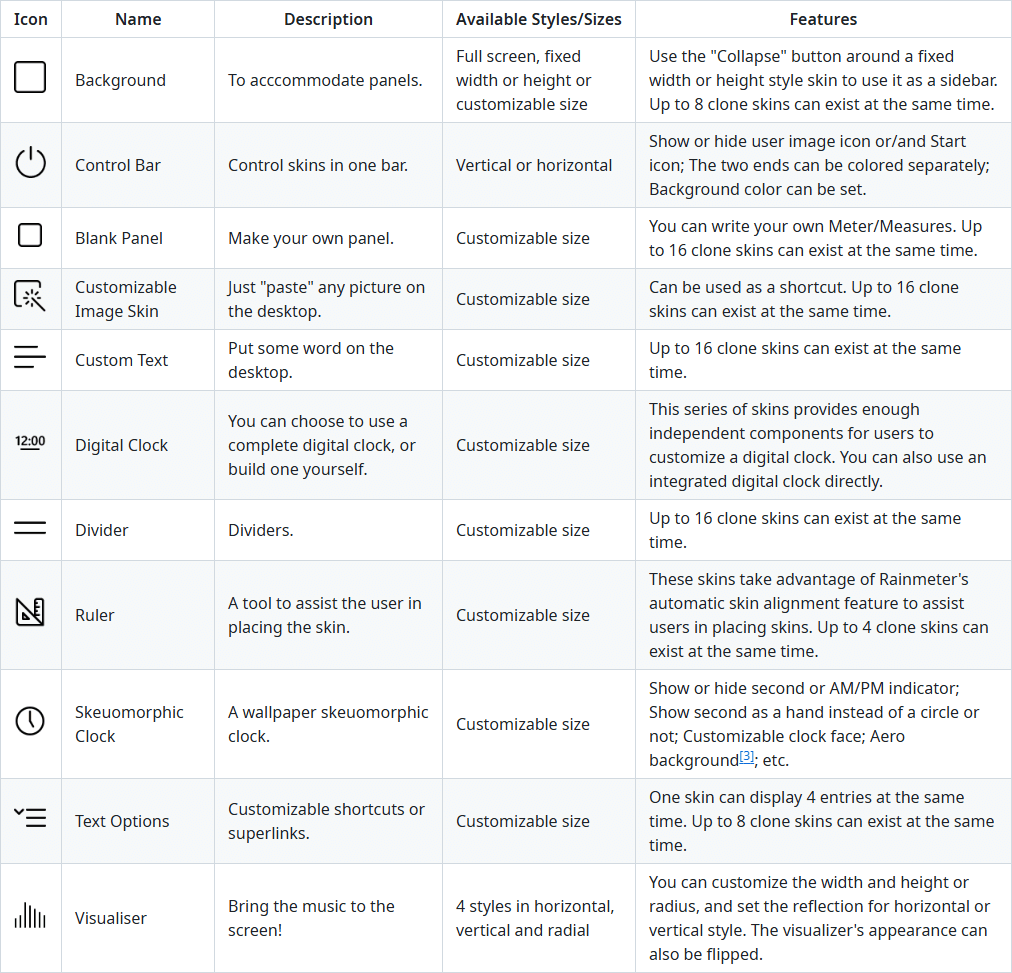
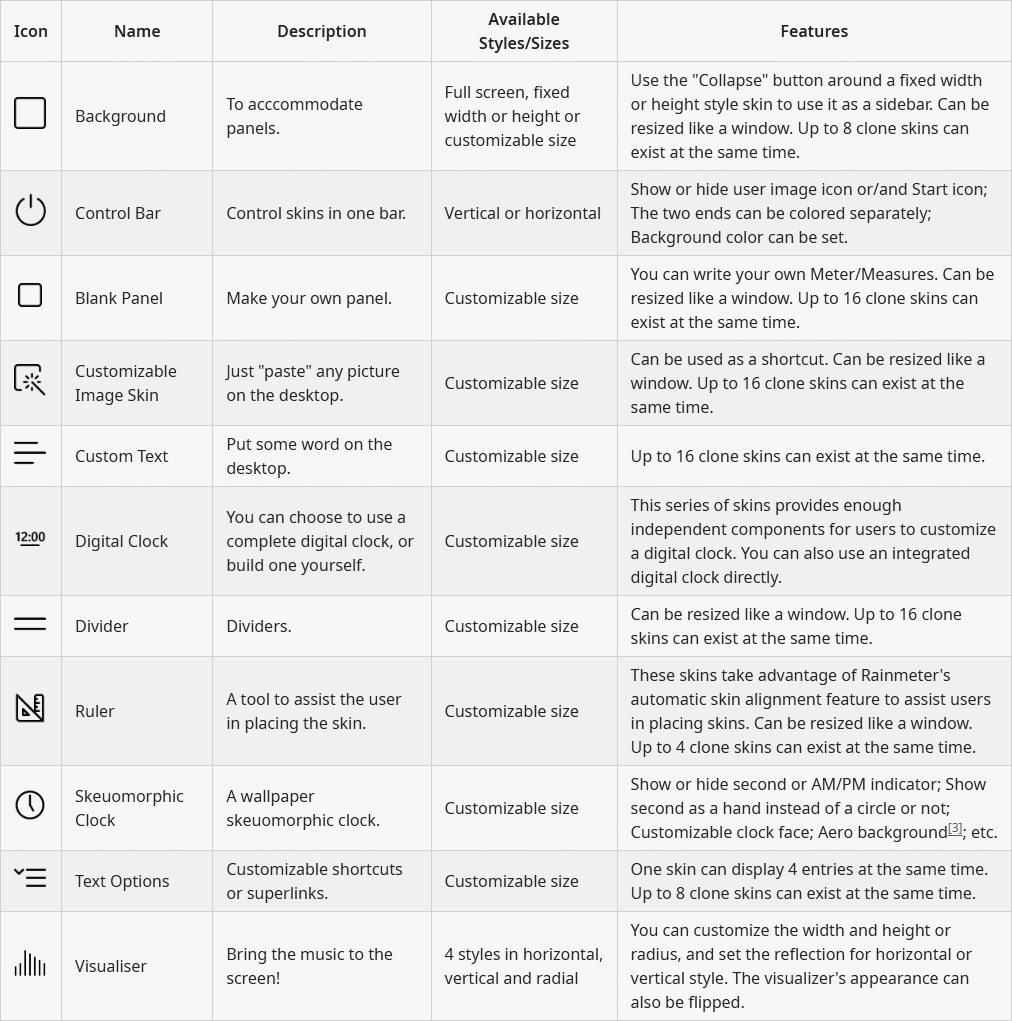
Update Resources

diff --git a/README.md b/README.md
@@ -12,7 +12,7 @@
 		<a href="https://github.com/stevehsudrawing/quantoflx"><img alt="GitHub Repo Stars" src="https://img.shields.io/github/stars/stevehsudrawing/quantoflx?style=flat"></a>
 		<a href="https://github.com/stevehsudrawing/quantoflx/issues"><img alt="GitHub Issues" src="https://img.shields.io/github/issues/stevehsudrawing/quantoflx"></a>
 		<a href="https://x.com/quantoseries"><img alt="X Follow" src="https://img.shields.io/twitter/follow/quantoseries?style=flat&logo=X&label=follow"></a>
-		<a href="https://www.patreon.com/quantoseries"><img alt="Patreon Subscribe" src="https://img.shields.io/badge/subscribe_%40quantoseries-_-%23999999?logo=patreon&label=subscribe"></a>
+		<a href="https://www.patreon.com/quantoseries"><img alt="Patreon Subscribe" src="https://img.shields.io/badge/subscribe-_-999999?logo=patreon"></a>
 		<br>
 		<a href="https://www.patreon.com/posts/119206461"><kbd>Changelog of Quanto Flx 2.00 Delta (Build 1101)</kbd></a><br>
 		<!-- <a href="https://www.patreon.com/posts/119206461"><kbd>Learn about the latest news of upcoming Delta (Build 1101)</kbd></a><br> -->
@@ -34,40 +34,40 @@ Quanto Flx comes with 4 pre-installed packages that contain **160+ distinctive p
 
 Gadgets for your everyday use.
 
-| Icon																																													| Name			| Description									| Available Styles/Sizes										| Features																															|
-|-----------------------------------------------------------------------------------------------------------------------------------------------------------------------------------------------------------------------------------------------------------------------------------------------------------------------------------------------------------------------|-----------------------|-------------------------------------------------------------------------------|-------------------------------------------------------------------------------------------------------|---------------------------------------------------------------------------------------------------------------------------------------------------------------------------------------------------------------------------------------------------------------|
-| <picture>	<source srcset=".github/images/QuantoFlx.Gadgets/IconSquare/Calculator_0.png" media="(prefers-color-scheme: light)">	<source srcset=".github/images/QuantoFlx.Gadgets/IconSquare/Calculator_1.png" media="(prefers-color-scheme: dark)">	<img src=".github/images/QuantoFlx.Gadgets/IconSquare/Calculator_0.png" width="32">	</picture>	| Calculator		| A simple desktop calculator.							| `4x4` `4x5`												| Playing sound when clicking button.																												|
-| <picture>	<source srcset=".github/images/QuantoFlx.Gadgets/IconSquare/Calendar_0.png" media="(prefers-color-scheme: light)">	<source srcset=".github/images/QuantoFlx.Gadgets/IconSquare/Calendar_1.png" media="(prefers-color-scheme: dark)">	<img src=".github/images/QuantoFlx.Gadgets/IconSquare/Calendar_0.png" width="32">	</picture>	| Calendar		| Shows today's date or the calendar for the month.				| `2x2*2` `4x4`												| Starting on Monday or not; Customizable list of events.																									|
-| <picture>	<source srcset=".github/images/QuantoFlx.Gadgets/IconSquare/Clock_0.png" media="(prefers-color-scheme: light)">		<source srcset=".github/images/QuantoFlx.Gadgets/IconSquare/Clock_1.png" media="(prefers-color-scheme: dark)">		<img src=".github/images/QuantoFlx.Gadgets/IconSquare/Clock_0.png" width="32">		</picture>	| Clock			| Displays the current time in the form of a digital or skeuomorphic clock.	| `2x1` `2x2` `4x2` `4x4`										| Text align; Show or hide second or AM/PM indicator; Show second as a hand instead of a circle or not; Customizable clock face; etc. Up to 8 clone skins can exist at the same time.										|
-| <picture>	<source srcset=".github/images/QuantoFlx.Gadgets/IconSquare/Desktop_0.png" media="(prefers-color-scheme: light)">	<source srcset=".github/images/QuantoFlx.Gadgets/IconSquare/Desktop_1.png" media="(prefers-color-scheme: dark)">	<img src=".github/images/QuantoFlx.Gadgets/IconSquare/Desktop_0.png" width="32">	</picture>	| Desktop		| Click to show or hide skins on the desktop.					| `1x1` & customizable size										| -																																|
-| <picture>	<source srcset=".github/images/QuantoFlx.Gadgets/IconSquare/FolderViewer_0.png" media="(prefers-color-scheme: light)">	<source srcset=".github/images/QuantoFlx.Gadgets/IconSquare/FolderViewer_1.png" media="(prefers-color-scheme: dark)">	<img src=".github/images/QuantoFlx.Gadgets/IconSquare/FolderViewer_0.png" width="32">	</picture>	| Folder Viewer		| Displays the contents of a folder.						| Customizable size in the style of List, horizontal & vertical icons (Dock-like)			| One skin can display 4 to 32 files/folders of any local path at the same time. Show or hide files or folders. Up to 8 clone skins can exist at the same time.													|
-| <picture>	<source srcset=".github/images/QuantoFlx.Gadgets/IconSquare/Gallery_0.png" media="(prefers-color-scheme: light)">	<source srcset=".github/images/QuantoFlx.Gadgets/IconSquare/Gallery_1.png" media="(prefers-color-scheme: dark)">	<img src=".github/images/QuantoFlx.Gadgets/IconSquare/Gallery_0.png" width="32">	</picture>	| Gallery		| Shuffle images from a folder.							| Customizable size											| -																																|
-| <picture>	<source srcset=".github/images/QuantoFlx.Gadgets/IconSquare/MediaControl_0.png" media="(prefers-color-scheme: light)">	<source srcset=".github/images/QuantoFlx.Gadgets/IconSquare/MediaControl_1.png" media="(prefers-color-scheme: dark)">	<img src=".github/images/QuantoFlx.Gadgets/IconSquare/MediaControl_0.png" width="32">	</picture>	| Media Control		| To control your music player in your fingertips.				| `1x1` `2x1` `2x2` `4x1` `4x2*2` `4x4`									| Supports players supported by `NowPlaying` Plugin[^1], and also adapts to `WebNowPlaying` Plugin[^2].																				|
-| <picture>	<source srcset=".github/images/QuantoFlx.Gadgets/IconSquare/RSS_0.png" media="(prefers-color-scheme: light)">		<source srcset=".github/images/QuantoFlx.Gadgets/IconSquare/RSS_1.png" media="(prefers-color-scheme: dark)">		<img src=".github/images/QuantoFlx.Gadgets/IconSquare/RSS_0.png" width="32">		</picture>	| RSS Feeds		| Keep track of the latest news from your RSS feeds.				| Customizable size											| Supports reading RSS feeds that conform to the Atom specification. 15/30 titles can be read at a time. Up to 8 clone skins can exist at the same time.													|
-| <picture>	<source srcset=".github/images/QuantoFlx.Gadgets/IconSquare/Search_0.png" media="(prefers-color-scheme: light)">	<source srcset=".github/images/QuantoFlx.Gadgets/IconSquare/Search_1.png" media="(prefers-color-scheme: dark)">		<img src=".github/images/QuantoFlx.Gadgets/IconSquare/Search_0.png" width="32">		</picture>	| Search		| A simple desktop search bar.							| Customizable size											| You can choose Baidu, Google, Microsoft Bing, Wikipedia, Yahoo or Yandex as the search engine.																				|
-| <picture>	<source srcset=".github/images/QuantoFlx.Gadgets/IconSquare/Start_0.png" media="(prefers-color-scheme: light)">		<source srcset=".github/images/QuantoFlx.Gadgets/IconSquare/Start_1.png" media="(prefers-color-scheme: dark)">		<img src=".github/images/QuantoFlx.Gadgets/IconSquare/Start_0.png" width="32">		</picture>	| Start			| Like the Start button on the taskbar, click to open the Start menu.		| `1x1` `4x1` & Customizable size									| Customizable Start icon.																													|
-| <picture>	<source srcset=".github/images/QuantoFlx.Gadgets/IconSquare/StickyNotes_0.png" media="(prefers-color-scheme: light)">	<source srcset=".github/images/QuantoFlx.Gadgets/IconSquare/StickyNotes_1.png" media="(prefers-color-scheme: dark)">	<img src=".github/images/QuantoFlx.Gadgets/IconSquare/StickyNotes_0.png" width="32">	</picture>	| Sticky Notes		| A simple tool for documenting something.					| Customizable size											| These skins implement its functions by reading text files and also support [text formatting](https://github.com/stevehsudrawing/quantoflx/wiki/Manual-of-%22Quanto-Flx-Gadgets%22-Package#text-formatting). Up to 16 clone skins can exist at the same time.	|
-| <picture>	<source srcset=".github/images/QuantoFlx.Gadgets/IconSquare/ToDoList_0.png" media="(prefers-color-scheme: light)">	<source srcset=".github/images/QuantoFlx.Gadgets/IconSquare/ToDoList_1.png" media="(prefers-color-scheme: dark)">	<img src=".github/images/QuantoFlx.Gadgets/IconSquare/ToDoList_0.png" width="32">	</picture>	| To-Do List		| A practical tool for recording matters.					| Customizable size											| Up to 8 clone skins can exist at the same time.																										|
-| <picture>	<source srcset=".github/images/QuantoFlx.Gadgets/IconSquare/Weather_0.png" media="(prefers-color-scheme: light)">	<source srcset=".github/images/QuantoFlx.Gadgets/IconSquare/Weather_1.png" media="(prefers-color-scheme: dark)">	<img src=".github/images/QuantoFlx.Gadgets/IconSquare/Weather_0.png" width="32">	</picture>	| Weather		| See what the weather looks like around the world.				| Current/Today: `1x1` `2x2` `4x1` `4x2` `4x4`<br>Daily/Hourly: `2x2` `4x1` `4x2*2` `4x4*2` `8x4`	| It is divided into four parts: "Current", "Daily", "Hourly" and "Today". No API key needed.																					|
-| <picture>	<source srcset=".github/images/QuantoFlx.Gadgets/IconSquare/WorldClock_0.png" media="(prefers-color-scheme: light)">	<source srcset=".github/images/QuantoFlx.Gadgets/IconSquare/WorldClock_1.png" media="(prefers-color-scheme: dark)">	<img src=".github/images/QuantoFlx.Gadgets/IconSquare/WorldClock_0.png" width="32">	</picture>	| World Clock		| View time around the world.							| `4x2` `4x4` `8x4`											| -																																|
+| Icon																																													| Name			| Description									| Available Styles/Sizes																										| Features																																			|
+|-----------------------------------------------------------------------------------------------------------------------------------------------------------------------------------------------------------------------------------------------------------------------------------------------------------------------------------------------------------------------|-----------------------|-------------------------------------------------------------------------------|---------------------------------------------------------------------------------------------------------------------------------------------------------------------------------------------------------------------------------------|-----------------------------------------------------------------------------------------------------------------------------------------------------------------------------------------------------------------------------------------------------------------------------------------------|
+| <picture>	<source srcset=".github/images/QuantoFlx.Gadgets/IconSquare/Calculator_0.png" media="(prefers-color-scheme: light)">	<source srcset=".github/images/QuantoFlx.Gadgets/IconSquare/Calculator_1.png" media="(prefers-color-scheme: dark)">	<img src=".github/images/QuantoFlx.Gadgets/IconSquare/Calculator_0.png" width="32">	</picture>	| Calculator		| A simple desktop calculator.							| `4x4` `4x5`																												| Playing sound when clicking button.																																|
+| <picture>	<source srcset=".github/images/QuantoFlx.Gadgets/IconSquare/Calendar_0.png" media="(prefers-color-scheme: light)">	<source srcset=".github/images/QuantoFlx.Gadgets/IconSquare/Calendar_1.png" media="(prefers-color-scheme: dark)">	<img src=".github/images/QuantoFlx.Gadgets/IconSquare/Calendar_0.png" width="32">	</picture>	| Calendar		| Shows today's date or the calendar for the month.				| `2x2*2` `4x4`																												| Starting on Monday or not; Customizable list of events.																													|
+| <picture>	<source srcset=".github/images/QuantoFlx.Gadgets/IconSquare/Clock_0.png" media="(prefers-color-scheme: light)">		<source srcset=".github/images/QuantoFlx.Gadgets/IconSquare/Clock_1.png" media="(prefers-color-scheme: dark)">		<img src=".github/images/QuantoFlx.Gadgets/IconSquare/Clock_0.png" width="32">		</picture>	| Clock			| Displays the current time in the form of a digital or skeuomorphic clock.	| `2x1` `2x2` `4x2` `4x4`																										| Text align; Show or hide second or AM/PM indicator; Show second as a hand instead of a circle or not; Customizable clock face; etc. Up to 8 clone skins can exist at the same time.														|
+| <picture>	<source srcset=".github/images/QuantoFlx.Gadgets/IconSquare/Desktop_0.png" media="(prefers-color-scheme: light)">	<source srcset=".github/images/QuantoFlx.Gadgets/IconSquare/Desktop_1.png" media="(prefers-color-scheme: dark)">	<img src=".github/images/QuantoFlx.Gadgets/IconSquare/Desktop_0.png" width="32">	</picture>	| Desktop		| Click to show or hide skins on the desktop.					| `1x1` & customizable size																										| Can be resized like a window.																																	|
+| <picture>	<source srcset=".github/images/QuantoFlx.Gadgets/IconSquare/FolderViewer_0.png" media="(prefers-color-scheme: light)">	<source srcset=".github/images/QuantoFlx.Gadgets/IconSquare/FolderViewer_1.png" media="(prefers-color-scheme: dark)">	<img src=".github/images/QuantoFlx.Gadgets/IconSquare/FolderViewer_0.png" width="32">	</picture>	| Folder Viewer		| Displays the contents of a folder.						| Customizable size in the style of List, horizontal & vertical icons (Dock-like)																			| One skin can display 4 to 32 files/folders of any local path at the same time. Show or hide files or folders. Can be resized like a window. Up to 8 clone skins can exist at the same time.													|
+| <picture>	<source srcset=".github/images/QuantoFlx.Gadgets/IconSquare/Gallery_0.png" media="(prefers-color-scheme: light)">	<source srcset=".github/images/QuantoFlx.Gadgets/IconSquare/Gallery_1.png" media="(prefers-color-scheme: dark)">	<img src=".github/images/QuantoFlx.Gadgets/IconSquare/Gallery_0.png" width="32">	</picture>	| Gallery		| Shuffle images from a folder.							| Customizable size																											| Can be resized like a window.																																	|
+| <picture>	<source srcset=".github/images/QuantoFlx.Gadgets/IconSquare/MediaControl_0.png" media="(prefers-color-scheme: light)">	<source srcset=".github/images/QuantoFlx.Gadgets/IconSquare/MediaControl_1.png" media="(prefers-color-scheme: dark)">	<img src=".github/images/QuantoFlx.Gadgets/IconSquare/MediaControl_0.png" width="32">	</picture>	| Media Control		| To control your music player in your fingertips.				| `1x1` `2x1` `2x2` `4x1` `4x2*2` `4x4`																									| Supports players supported by `NowPlaying` Plugin[^1], and also adapts to `WebNowPlaying` Plugin[^2].																								|
+| <picture>	<source srcset=".github/images/QuantoFlx.Gadgets/IconSquare/RSS_0.png" media="(prefers-color-scheme: light)">		<source srcset=".github/images/QuantoFlx.Gadgets/IconSquare/RSS_1.png" media="(prefers-color-scheme: dark)">		<img src=".github/images/QuantoFlx.Gadgets/IconSquare/RSS_0.png" width="32">		</picture>	| RSS Feeds		| Keep track of the latest news from your RSS feeds.				| Customizable size																											| Supports reading RSS feeds that conform to the Atom specification. 15/30 titles can be read at a time. Can be resized like a window. Up to 8 clone skins can exist at the same time.														|
+| <picture>	<source srcset=".github/images/QuantoFlx.Gadgets/IconSquare/Search_0.png" media="(prefers-color-scheme: light)">	<source srcset=".github/images/QuantoFlx.Gadgets/IconSquare/Search_1.png" media="(prefers-color-scheme: dark)">		<img src=".github/images/QuantoFlx.Gadgets/IconSquare/Search_0.png" width="32">		</picture>	| Search		| A simple desktop search bar.							| Customizable size																											| You can choose Baidu, Google, Microsoft Bing, Wikipedia, Yahoo or Yandex as the search engine. Can be resized like a window. 																					|
+| <picture>	<source srcset=".github/images/QuantoFlx.Gadgets/IconSquare/Start_0.png" media="(prefers-color-scheme: light)">		<source srcset=".github/images/QuantoFlx.Gadgets/IconSquare/Start_1.png" media="(prefers-color-scheme: dark)">		<img src=".github/images/QuantoFlx.Gadgets/IconSquare/Start_0.png" width="32">		</picture>	| Start			| Like the Start button on the taskbar, click to open the Start menu.		| `1x1` `4x1` & Customizable size																									| Customizable Start icon. Can be resized like a window. 																													|
+| <picture>	<source srcset=".github/images/QuantoFlx.Gadgets/IconSquare/StickyNotes_0.png" media="(prefers-color-scheme: light)">	<source srcset=".github/images/QuantoFlx.Gadgets/IconSquare/StickyNotes_1.png" media="(prefers-color-scheme: dark)">	<img src=".github/images/QuantoFlx.Gadgets/IconSquare/StickyNotes_0.png" width="32">	</picture>	| Sticky Notes		| A simple tool for documenting something.					| Customizable size																											| These skins implement its functions by reading text files and also support [text formatting](https://github.com/stevehsudrawing/quantoflx/wiki/Manual-of-%22Quanto-Flx-Gadgets%22-Package#text-formatting). Can be resized like a window. Up to 16 clone skins can exist at the same time.	|
+| <picture>	<source srcset=".github/images/QuantoFlx.Gadgets/IconSquare/ToDoList_0.png" media="(prefers-color-scheme: light)">	<source srcset=".github/images/QuantoFlx.Gadgets/IconSquare/ToDoList_1.png" media="(prefers-color-scheme: dark)">	<img src=".github/images/QuantoFlx.Gadgets/IconSquare/ToDoList_0.png" width="32">	</picture>	| To-Do List		| A practical tool for recording matters.					| Customizable size																											| Up to 8 clone skins can exist at the same time. Can be resized like a window. 																										|
+| <picture>	<source srcset=".github/images/QuantoFlx.Gadgets/IconSquare/Weather_0.png" media="(prefers-color-scheme: light)">	<source srcset=".github/images/QuantoFlx.Gadgets/IconSquare/Weather_1.png" media="(prefers-color-scheme: dark)">	<img src=".github/images/QuantoFlx.Gadgets/IconSquare/Weather_0.png" width="32">	</picture>	| Weather		| See what the weather looks like around the world.				| Current/Today: `1x1` `2x2` `4x1` `4x2` `4x4`<br>Daily/Hourly: `2x2` `4x1` `4x2*2` `4x4*2` `8x4`<br>Air Quality/Clothing Advices/Cloud Cover/Precipitation/Daylight Duration/UV/Visibility/Wind: `1x1` `2x2` `4x1` `4x2` `6x2` `8x2`	| As shown in Available Sizes/Styles, this widget is divided into several parts that can be freely combined. No API key needed.																					|
+| <picture>	<source srcset=".github/images/QuantoFlx.Gadgets/IconSquare/WorldClock_0.png" media="(prefers-color-scheme: light)">	<source srcset=".github/images/QuantoFlx.Gadgets/IconSquare/WorldClock_1.png" media="(prefers-color-scheme: dark)">	<img src=".github/images/QuantoFlx.Gadgets/IconSquare/WorldClock_0.png" width="32">	</picture>	| World Clock		| View time around the world.							| `4x2` `8x4`																											| -																																				|
 
 ### Quanto Flx Miscellaneous
 
 Here are more skins to decorate your desktop.
 
-| Icon																																														| Name				| Description									| Available Styles/Sizes					| Features																			|
-|-------------------------------------------------------------------------------------------------------------------------------------------------------------------------------------------------------------------------------------------------------------------------------------------------------------------------------------------------------------------------------|-------------------------------|-------------------------------------------------------------------------------|---------------------------------------------------------------|---------------------------------------------------------------------------------------------------------------------------------------------------------------|
-| <picture>	<source srcset=".github/images/QuantoFlx.Misc/IconSquare/Background_0.png" media="(prefers-color-scheme: light)">		<source srcset=".github/images/QuantoFlx.Misc/IconSquare/Background_1.png" media="(prefers-color-scheme: dark)">	<img src=".github/images/QuantoFlx.Misc/IconSquare/Background_0.png" width="32">	</picture>	| Background			| To acccommodate panels.							| Full screen, fixed width or height or customizable size	| Use the "Collapse" button around a fixed width or height style skin to use it as a sidebar. Up to 8 clone skins can exist at the same time.			|
-| <picture>	<source srcset=".github/images/QuantoFlx.Misc/IconSquare/ControlBar_0.png" media="(prefers-color-scheme: light)">		<source srcset=".github/images/QuantoFlx.Misc/IconSquare/ControlBar_1.png" media="(prefers-color-scheme: dark)">	<img src=".github/images/QuantoFlx.Misc/IconSquare/ControlBar_0.png" width="32">	</picture>	| Control Bar			| Control skins in one bar.							| Vertical or horizontal					| Show or hide user image icon or/and Start icon; The two ends can be colored separately; Background color can be set.						|
-| <picture>	<source srcset=".github/images/QuantoFlx.Misc/IconSquare/BlankPanel_0.png" media="(prefers-color-scheme: light)">		<source srcset=".github/images/QuantoFlx.Misc/IconSquare/BlankPanel_1.png" media="(prefers-color-scheme: dark)">	<img src=".github/images/QuantoFlx.Misc/IconSquare/BlankPanel_0.png" width="32">	</picture>	| Blank Panel			| Make your own panel.								| Customizable size						| You can write your own Meter/Measures. Up to 16 clone skins can exist at the same time.									|
-| <picture>	<source srcset=".github/images/QuantoFlx.Misc/IconSquare/Customization_0.png" media="(prefers-color-scheme: light)">		<source srcset=".github/images/QuantoFlx.Misc/IconSquare/Customization_1.png" media="(prefers-color-scheme: dark)">	<img src=".github/images/QuantoFlx.Misc/IconSquare/Customization_0.png" width="32">	</picture>	| Customizable Image Skin	| Just "paste" any picture on the desktop.					| Customizable size						| Can be used as a shortcut. Up to 16 clone skins can exist at the same time.											|
-| <picture>	<source srcset=".github/images/QuantoFlx.Misc/IconSquare/CustomText_0.png" media="(prefers-color-scheme: light)">		<source srcset=".github/images/QuantoFlx.Misc/IconSquare/CustomText_1.png" media="(prefers-color-scheme: dark)">	<img src=".github/images/QuantoFlx.Misc/IconSquare/CustomText_0.png" width="32">	</picture>	| Custom Text			| Put some word on the desktop.							| Customizable size						| Up to 16 clone skins can exist at the same time.														|
-| <picture>	<source srcset=".github/images/QuantoFlx.Misc/IconSquare/DigitalClock_0.png" media="(prefers-color-scheme: light)">		<source srcset=".github/images/QuantoFlx.Misc/IconSquare/DigitalClock_1.png" media="(prefers-color-scheme: dark)">	<img src=".github/images/QuantoFlx.Misc/IconSquare/DigitalClock_0.png" width="32">	</picture>	| Digital Clock			| You can choose to use a complete digital clock, or build one yourself.	| Customizable size						| This series of skins provides enough independent components for users to customize a digital clock. You can also use an integrated digital clock directly.	|
-| <picture>	<source srcset=".github/images/QuantoFlx.Misc/IconSquare/DividingLine_0.png" media="(prefers-color-scheme: light)">		<source srcset=".github/images/QuantoFlx.Misc/IconSquare/DividingLine_1.png" media="(prefers-color-scheme: dark)">	<img src=".github/images/QuantoFlx.Misc/IconSquare/DividingLine_0.png" width="32">	</picture>	| Divider			| Dividers.									| Customizable size						| Up to 16 clone skins can exist at the same time.														|
-| <picture>	<source srcset=".github/images/QuantoFlx.Misc/IconSquare/Ruler_0.png" media="(prefers-color-scheme: light)">			<source srcset=".github/images/QuantoFlx.Misc/IconSquare/Ruler_1.png" media="(prefers-color-scheme: dark)">		<img src=".github/images/QuantoFlx.Misc/IconSquare/Ruler_0.png" width="32">		</picture>	| Ruler				| A tool to assist the user in placing the skin.				| Customizable size						| These skins take advantage of Rainmeter's automatic skin alignment feature to assist users in placing skins. Up to 4 clone skins can exist at the same time.	|
-| <picture>	<source srcset=".github/images/QuantoFlx.Misc/IconSquare/SkeuomorphicClock_0.png" media="(prefers-color-scheme: light)">	<source srcset=".github/images/QuantoFlx.Misc/IconSquare/SkeuomorphicClock_1.png" media="(prefers-color-scheme: dark)">	<img src=".github/images/QuantoFlx.Misc/IconSquare/SkeuomorphicClock_0.png" width="32">	</picture>	| Skeuomorphic Clock		| A wallpaper skeuomorphic clock.						| Customizable size						| Show or hide second or AM/PM indicator; Show second as a hand instead of a circle or not; Customizable clock face; Aero background[^3]; etc.			|
-| <picture>	<source srcset=".github/images/QuantoFlx.Misc/IconSquare/TextOptions_0.png" media="(prefers-color-scheme: light)">		<source srcset=".github/images/QuantoFlx.Misc/IconSquare/TextOptions_1.png" media="(prefers-color-scheme: dark)">	<img src=".github/images/QuantoFlx.Misc/IconSquare/TextOptions_0.png" width="32">	</picture>	| Text Options			| Customizable shortcuts or superlinks.						| Customizable size						| One skin can display 4 entries at the same time. Up to 8 clone skins can exist at the same time.								|
-| <picture>	<source srcset=".github/images/QuantoFlx.Misc/IconSquare/Visualiser_0.png" media="(prefers-color-scheme: light)">		<source srcset=".github/images/QuantoFlx.Misc/IconSquare/Visualiser_1.png" media="(prefers-color-scheme: dark)">	<img src=".github/images/QuantoFlx.Misc/IconSquare/Visualiser_0.png" width="32">	</picture>	| Visualiser			| Bring the music to the screen!						| 4 styles in horizontal, vertical and radial			| You can customize the width and height or radius, and set the reflection for horizontal or vertical style. The visualizer's appearance can also be flipped.	|
+| Icon																																														| Name				| Description									| Available Styles/Sizes					| Features																							|
+|-------------------------------------------------------------------------------------------------------------------------------------------------------------------------------------------------------------------------------------------------------------------------------------------------------------------------------------------------------------------------------|-------------------------------|-------------------------------------------------------------------------------|---------------------------------------------------------------|-----------------------------------------------------------------------------------------------------------------------------------------------------------------------------------------------|
+| <picture>	<source srcset=".github/images/QuantoFlx.Misc/IconSquare/Background_0.png" media="(prefers-color-scheme: light)">		<source srcset=".github/images/QuantoFlx.Misc/IconSquare/Background_1.png" media="(prefers-color-scheme: dark)">	<img src=".github/images/QuantoFlx.Misc/IconSquare/Background_0.png" width="32">	</picture>	| Background			| To acccommodate panels.							| Full screen, fixed width or height or customizable size	| Use the "Collapse" button around a fixed width or height style skin to use it as a sidebar. Can be resized like a window. Up to 8 clone skins can exist at the same time.			|
+| <picture>	<source srcset=".github/images/QuantoFlx.Misc/IconSquare/ControlBar_0.png" media="(prefers-color-scheme: light)">		<source srcset=".github/images/QuantoFlx.Misc/IconSquare/ControlBar_1.png" media="(prefers-color-scheme: dark)">	<img src=".github/images/QuantoFlx.Misc/IconSquare/ControlBar_0.png" width="32">	</picture>	| Control Bar			| Control skins in one bar.							| Vertical or horizontal					| Show or hide user image icon or/and Start icon; The two ends can be colored separately; Background color can be set.										|
+| <picture>	<source srcset=".github/images/QuantoFlx.Misc/IconSquare/BlankPanel_0.png" media="(prefers-color-scheme: light)">		<source srcset=".github/images/QuantoFlx.Misc/IconSquare/BlankPanel_1.png" media="(prefers-color-scheme: dark)">	<img src=".github/images/QuantoFlx.Misc/IconSquare/BlankPanel_0.png" width="32">	</picture>	| Blank Panel			| Make your own panel.								| Customizable size						| You can write your own Meter/Measures. Can be resized like a window. Up to 16 clone skins can exist at the same time.										|
+| <picture>	<source srcset=".github/images/QuantoFlx.Misc/IconSquare/Customization_0.png" media="(prefers-color-scheme: light)">		<source srcset=".github/images/QuantoFlx.Misc/IconSquare/Customization_1.png" media="(prefers-color-scheme: dark)">	<img src=".github/images/QuantoFlx.Misc/IconSquare/Customization_0.png" width="32">	</picture>	| Customizable Image Skin	| Just "paste" any picture on the desktop.					| Customizable size						| Can be used as a shortcut. Can be resized like a window. Up to 16 clone skins can exist at the same time.											|
+| <picture>	<source srcset=".github/images/QuantoFlx.Misc/IconSquare/CustomText_0.png" media="(prefers-color-scheme: light)">		<source srcset=".github/images/QuantoFlx.Misc/IconSquare/CustomText_1.png" media="(prefers-color-scheme: dark)">	<img src=".github/images/QuantoFlx.Misc/IconSquare/CustomText_0.png" width="32">	</picture>	| Custom Text			| Put some word on the desktop.							| Customizable size						| Up to 16 clone skins can exist at the same time.																		|
+| <picture>	<source srcset=".github/images/QuantoFlx.Misc/IconSquare/DigitalClock_0.png" media="(prefers-color-scheme: light)">		<source srcset=".github/images/QuantoFlx.Misc/IconSquare/DigitalClock_1.png" media="(prefers-color-scheme: dark)">	<img src=".github/images/QuantoFlx.Misc/IconSquare/DigitalClock_0.png" width="32">	</picture>	| Digital Clock			| You can choose to use a complete digital clock, or build one yourself.	| Customizable size						| This series of skins provides enough independent components for users to customize a digital clock. You can also use an integrated digital clock directly.					|
+| <picture>	<source srcset=".github/images/QuantoFlx.Misc/IconSquare/DividingLine_0.png" media="(prefers-color-scheme: light)">		<source srcset=".github/images/QuantoFlx.Misc/IconSquare/DividingLine_1.png" media="(prefers-color-scheme: dark)">	<img src=".github/images/QuantoFlx.Misc/IconSquare/DividingLine_0.png" width="32">	</picture>	| Divider			| Dividers.									| Customizable size						| Can be resized like a window. Up to 16 clone skins can exist at the same time.														|
+| <picture>	<source srcset=".github/images/QuantoFlx.Misc/IconSquare/Ruler_0.png" media="(prefers-color-scheme: light)">			<source srcset=".github/images/QuantoFlx.Misc/IconSquare/Ruler_1.png" media="(prefers-color-scheme: dark)">		<img src=".github/images/QuantoFlx.Misc/IconSquare/Ruler_0.png" width="32">		</picture>	| Ruler				| A tool to assist the user in placing the skin.				| Customizable size						| These skins take advantage of Rainmeter's automatic skin alignment feature to assist users in placing skins. Can be resized like a window. Up to 4 clone skins can exist at the same time.	|
+| <picture>	<source srcset=".github/images/QuantoFlx.Misc/IconSquare/SkeuomorphicClock_0.png" media="(prefers-color-scheme: light)">	<source srcset=".github/images/QuantoFlx.Misc/IconSquare/SkeuomorphicClock_1.png" media="(prefers-color-scheme: dark)">	<img src=".github/images/QuantoFlx.Misc/IconSquare/SkeuomorphicClock_0.png" width="32">	</picture>	| Skeuomorphic Clock		| A wallpaper skeuomorphic clock.						| Customizable size						| Show or hide second or AM/PM indicator; Show second as a hand instead of a circle or not; Customizable clock face; Aero background[^3]; etc.							|
+| <picture>	<source srcset=".github/images/QuantoFlx.Misc/IconSquare/TextOptions_0.png" media="(prefers-color-scheme: light)">		<source srcset=".github/images/QuantoFlx.Misc/IconSquare/TextOptions_1.png" media="(prefers-color-scheme: dark)">	<img src=".github/images/QuantoFlx.Misc/IconSquare/TextOptions_0.png" width="32">	</picture>	| Text Options			| Customizable shortcuts or superlinks.						| Customizable size						| One skin can display 4 entries at the same time. Up to 8 clone skins can exist at the same time.												|
+| <picture>	<source srcset=".github/images/QuantoFlx.Misc/IconSquare/Visualiser_0.png" media="(prefers-color-scheme: light)">		<source srcset=".github/images/QuantoFlx.Misc/IconSquare/Visualiser_1.png" media="(prefers-color-scheme: dark)">	<img src=".github/images/QuantoFlx.Misc/IconSquare/Visualiser_0.png" width="32">	</picture>	| Visualiser			| Bring the music to the screen!						| 4 styles in horizontal, vertical and radial			| You can customize the width and height or radius, and set the reflection for horizontal or vertical style. The visualizer's appearance can also be flipped.					|
 
 ### Quanto Flx Shortcuts
 
@@ -97,18 +97,18 @@ These skins rely on system monitoring software (such as AIDA or HWiNFO) to provi
 | <picture>	<source srcset=".github/images/QuantoFlx.System/IconSquare/CoolingFans_0.png" media="(prefers-color-scheme: light)">		<source srcset=".github/images/QuantoFlx.System/IconSquare/CoolingFans_1.png" media="(prefers-color-scheme: dark)">		<img src=".github/images/QuantoFlx.System/IconSquare/CoolingFans_0.png" width="32">		</picture>	| Cooling Fans				| Displays the speed of the current cooling fan.			| `1x1` `2x2` `4x1`			| One of Generic System Monitoring Skins. Up to 8 clone skins can exist at the same time.								|
 | <picture>	<source srcset=".github/images/QuantoFlx.System/IconSquare/Customization_0.png" media="(prefers-color-scheme: light)">		<source srcset=".github/images/QuantoFlx.System/IconSquare/Customization_1.png" media="(prefers-color-scheme: dark)">		<img src=".github/images/QuantoFlx.System/IconSquare/Customization_0.png" width="32">		</picture>	| Customizable System Monitoring Skins	| For the brave of you.							| `1x1` `2x2` `4x1` `4x2` `Details*2`	| One of Generic System Monitoring Skins. You can modify the parameters of this skin or add Measures. Up to 16 clone skins can exist at the same time.	|
 | <picture>	<source srcset=".github/images/QuantoFlx.System/IconSquare/CPU_0.png" media="(prefers-color-scheme: light)">			<source srcset=".github/images/QuantoFlx.System/IconSquare/CPU_1.png" media="(prefers-color-scheme: dark)">			<img src=".github/images/QuantoFlx.System/IconSquare/CPU_0.png" width="32">			</picture>	| CPU					| Displays the current CPU usage and status.				| `1x1` `2x2` `4x1` `4x2` `Details*2`	| One of Generic System Monitoring Skins.														|
-| <picture>	<source srcset=".github/images/QuantoFlx.System/IconSquare/CPUProcessors_0.png" media="(prefers-color-scheme: light)">		<source srcset=".github/images/QuantoFlx.System/IconSquare/CPUProcessors_1.png" media="(prefers-color-scheme: dark)">		<img src=".github/images/QuantoFlx.System/IconSquare/CPUProcessors_0.png" width="32">		</picture>	| CPU Processors			| Displays the current CPU usage for each processor.			| Adaptive				| One of Generic System Monitoring Skins.														|
+| <picture>	<source srcset=".github/images/QuantoFlx.System/IconSquare/CPUProcessors_0.png" media="(prefers-color-scheme: light)">		<source srcset=".github/images/QuantoFlx.System/IconSquare/CPUProcessors_1.png" media="(prefers-color-scheme: dark)">		<img src=".github/images/QuantoFlx.System/IconSquare/CPUProcessors_0.png" width="32">		</picture>	| CPU Processors			| Displays the current CPU usage for each processor.			| Adaptive				| -																			|
 | <picture>	<source srcset=".github/images/QuantoFlx.System/IconSquare/GPU_0.png" media="(prefers-color-scheme: light)">			<source srcset=".github/images/QuantoFlx.System/IconSquare/GPU_1.png" media="(prefers-color-scheme: dark)">			<img src=".github/images/QuantoFlx.System/IconSquare/GPU_0.png" width="32">			</picture>	| GPU					| Displays the current GPU usage and status.				| `1x1` `2x2` `4x1` `4x2` `Details*2`	| One of Generic System Monitoring Skins. Up to 8 clone skins can exist at the same time.								|
 | <picture>	<source srcset=".github/images/QuantoFlx.System/IconSquare/Drives_0.png" media="(prefers-color-scheme: light)">			<source srcset=".github/images/QuantoFlx.System/IconSquare/Drives_1.png" media="(prefers-color-scheme: dark)">			<img src=".github/images/QuantoFlx.System/IconSquare/Drives_0.png" width="32">			</picture>	| Logical Drives			| Displays the occupancy and status of each drive.			| `1x1` `2x2` `4x1` `4x2` `Details`	| One of Generic System Monitoring Skins. Up to 26 clone skins can exist at the same time.								|
 | <picture>	<source srcset=".github/images/QuantoFlx.System/IconSquare/Network_0.png" media="(prefers-color-scheme: light)">		<source srcset=".github/images/QuantoFlx.System/IconSquare/Network_1.png" media="(prefers-color-scheme: dark)">			<img src=".github/images/QuantoFlx.System/IconSquare/Network_0.png" width="32">			</picture>	| Network				| Displays the traffic and the current network conditions.		| `1x1` `2x2` `4x1` `4x2` `Details*2`	| One of Generic System Monitoring Skins.														|
 | <picture>	<source srcset=".github/images/QuantoFlx.System/IconSquare/PhysicalDrives_0.png" media="(prefers-color-scheme: light)">		<source srcset=".github/images/QuantoFlx.System/IconSquare/PhysicalDrives_1.png" media="(prefers-color-scheme: dark)">		<img src=".github/images/QuantoFlx.System/IconSquare/PhysicalDrives_0.png" width="32">		</picture>	| Physical Drives			| Displays the status of physical drives.				| `1x1` `2x2` `4x1` `4x2` `Details*2`	| One of Generic System Monitoring Skins. Up to 8 clone skins can exist at the same time.								|
 | <picture>	<source srcset=".github/images/QuantoFlx.System/IconSquare/RAM_0.png" media="(prefers-color-scheme: light)">			<source srcset=".github/images/QuantoFlx.System/IconSquare/RAM_1.png" media="(prefers-color-scheme: dark)">			<img src=".github/images/QuantoFlx.System/IconSquare/RAM_0.png" width="32">			</picture>	| RAM					| Displays the current RAM usage and status.				| `1x1` `2x2` `4x1` `4x2` `Details*2`	| One of Generic System Monitoring Skins.														|
-| <picture>	<source srcset=".github/images/QuantoFlx.System/IconSquare/RecycleBin_0.png" media="(prefers-color-scheme: light)">		<source srcset=".github/images/QuantoFlx.System/IconSquare/RecycleBin_1.png" media="(prefers-color-scheme: dark)">		<img src=".github/images/QuantoFlx.System/IconSquare/RecycleBin_0.png" width="32">		</picture>	| Recycle Bin				| Same as the "Recycle Bin" icon on the desktop.			| `1x1` `4x1` and Customizable size	| Drag a file into this skin to delete it. You can customize the icon that this skin displays in different situations.					|
+| <picture>	<source srcset=".github/images/QuantoFlx.System/IconSquare/RecycleBin_0.png" media="(prefers-color-scheme: light)">		<source srcset=".github/images/QuantoFlx.System/IconSquare/RecycleBin_1.png" media="(prefers-color-scheme: dark)">		<img src=".github/images/QuantoFlx.System/IconSquare/RecycleBin_0.png" width="32">		</picture>	| Recycle Bin				| Same as the "Recycle Bin" icon on the desktop.			| `1x1` `4x1` and Customizable size	| Drag a file into this skin to delete it. You can customize the icon that this skin displays in different situations. Can be resized like a window. 	|
 | <picture>	<source srcset=".github/images/QuantoFlx.System/IconSquare/ScreenBrightness_0.png" media="(prefers-color-scheme: light)">	<source srcset=".github/images/QuantoFlx.System/IconSquare/ScreenBrightness_1.png" media="(prefers-color-scheme: dark)">	<img src=".github/images/QuantoFlx.System/IconSquare/ScreenBrightness_0.png" width="32">	</picture>	| Screen Brightness			| Option to adjust the brightness of the screen.			| `4x1` `4x2`				| This skin is only available for screens that can adjust the brightness.										|
 | <picture>	<source srcset=".github/images/QuantoFlx.System/IconSquare/System_0.png" media="(prefers-color-scheme: light)">			<source srcset=".github/images/QuantoFlx.System/IconSquare/System_1.png" media="(prefers-color-scheme: dark)">			<img src=".github/images/QuantoFlx.System/IconSquare/System_0.png" width="32">			</picture>	| System				| Displays the current status of the system.				| `4x1` `Details`			| One of Generic System Monitoring Skins. You can quickly copy your PC information.									|
-| <picture>	<source srcset=".github/images/QuantoFlx.System/IconSquare/TopProcess_0.png" media="(prefers-color-scheme: light)">		<source srcset=".github/images/QuantoFlx.System/IconSquare/TopProcess_1.png" media="(prefers-color-scheme: dark)">		<img src=".github/images/QuantoFlx.System/IconSquare/TopProcess_0.png" width="32">		</picture>	| Top Process				| Displays the processes that use the highest resources.		| Customizable size			| Up to 4 clone skins (CPU, GPU, I/O, RAM) can exist at the same time.											|
+| <picture>	<source srcset=".github/images/QuantoFlx.System/IconSquare/TopProcess_0.png" media="(prefers-color-scheme: light)">		<source srcset=".github/images/QuantoFlx.System/IconSquare/TopProcess_1.png" media="(prefers-color-scheme: dark)">		<img src=".github/images/QuantoFlx.System/IconSquare/TopProcess_0.png" width="32">		</picture>	| Top Process				| Displays the processes that use the highest resources.		| Customizable size			| Up to 4 clone skins (CPU, GPU, I/O, RAM) can exist at the same time. Can be resized like a window. 							|
 | <picture>	<source srcset=".github/images/QuantoFlx.System/IconSquare/VideoMemory_0.png" media="(prefers-color-scheme: light)">		<source srcset=".github/images/QuantoFlx.System/IconSquare/VideoMemory_1.png" media="(prefers-color-scheme: dark)">		<img src=".github/images/QuantoFlx.System/IconSquare/VideoMemory_0.png" width="32">		</picture>	| Video Memory				| Displays the current total video memory and usage.			| `1x1` `2x2` `4x1` `4x2`		| One of Generic System Monitoring Skins.														|
-| <picture>	<source srcset=".github/images/QuantoFlx.System/IconSquare/Volume_0.png" media="(prefers-color-scheme: light)">			<source srcset=".github/images/QuantoFlx.System/IconSquare/Volume_1.png" media="(prefers-color-scheme: dark)">			<img src=".github/images/QuantoFlx.System/IconSquare/Volume_0.png" width="32">			</picture>	| Volume				| Options to adjust the global volume or the volume of each app.	| `4x1` and Customizable size		| Options to adjust the global volume or the volume of each app.											|
+| <picture>	<source srcset=".github/images/QuantoFlx.System/IconSquare/Volume_0.png" media="(prefers-color-scheme: light)">			<source srcset=".github/images/QuantoFlx.System/IconSquare/Volume_1.png" media="(prefers-color-scheme: dark)">			<img src=".github/images/QuantoFlx.System/IconSquare/Volume_0.png" width="32">			</picture>	| Volume				| Options to adjust the global volume or the volume of each app.	| `4x1` and Customizable size		| Options to adjust the global volume or the volume of each app. Can be resized like a window. 								|
 
 ## Show Your Personality
 
@@ -178,6 +178,12 @@ Your contributions are always welcome! If you would like to contribute translati
 
 Quanto Flx supports Windows 7 and newer. As long as your device can install the latest version of Rainmeter, you can also use Quanto Flx!
 
+- Aero effects have been adapted for Windows 7.
+
+- The `FrostedGlass` Plugin has been adapted for Windows 10/11.
+
+- You can experience this suite better under Windows 10/11.
+
 <div align="center">
 	<img alt="Quanto Flx Demo Overview" src=".github/images/Misc/Demo/Overview.png" width="400">
 </div>
@@ -191,7 +197,7 @@ You are currently browsing **the `main` branch**.
 | **`main`**									| 🟩										| This branch pushes **releases and pre-releases**. If you want **a stable and long-term available version**, you should check out [the Release page](https://github.com/stevehsudrawing/quantoflx/releases), and download the **final release** version. You can also download **the pre-release version** to **experience newer features**. Translators should choose the latest version marked "Globalization Ready" for translation.	|
 | [`snapshot`](https://github.com/stevehsudrawing/quantoflx/tree/snapshot)	| 🟥										| This branch pushes **snapshot versions**. If you **pursue the latest features**, you can choose this branch. However, it should be noted that since this branch is **updated frequently** and **the version may be extremely unstable**, you should choose it with caution.																					|
 
-# How to Install
+# How to install for the first time
 
 ## Automatic Installation
 
@@ -225,6 +231,20 @@ Then, **clone this repository to your local machine** via Git or GitHub Desktop 
 - Copy/unzip (and overwrite) `QuantoFlx` and `QuantoFlx_Setup` folders in `Layouts` folder to `%APPDATA%\Rainmeter\Layouts`.
 
 Finally, refresh or restart Rainmeter and load the `QuantoFlx_Setup` layout in the Layouts page of the Rainmeter Manager. Enjoy!
+
+# How to upgrade from a old version
+
+Here is just a summary. For details, please read [this article](https://github.com/stevehsudrawing/quantoflx/wiki/Guide-of-Upgrading-Quanto-Flx) to perform the upgrade.
+
+1. Back up the skin settings for all current packages using the Backup Wizard in the global settings.
+
+2. Save the current layout using the Rainmeter Manager.
+
+3. Use the installation package of a newer version of Quanto Flx to overwrite the old version. **Be sure to check "Load included layouts".**
+
+4. In the "Is it your first time using Quanto Flx" step of the initialization wizard, select "No, I upgraded Quanto Flx from an older version.".
+
+5. Restore the skin settings first, then restore the layout.
 
 # Screenshots
 
